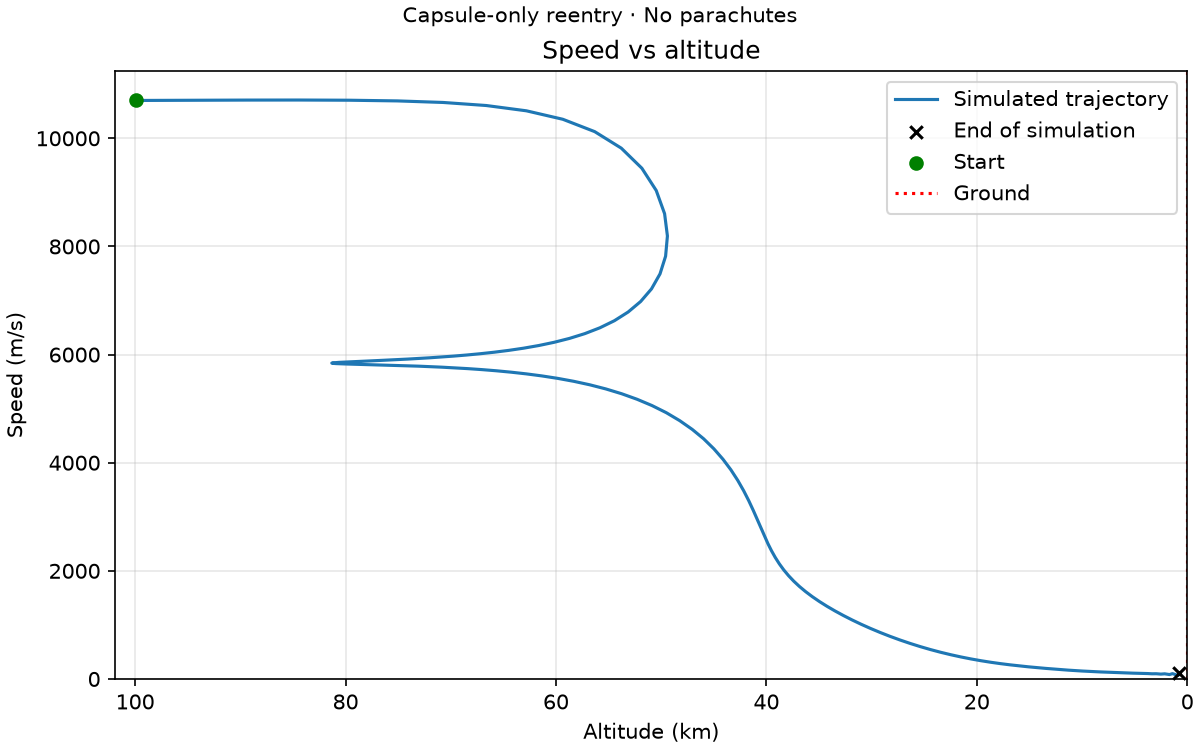
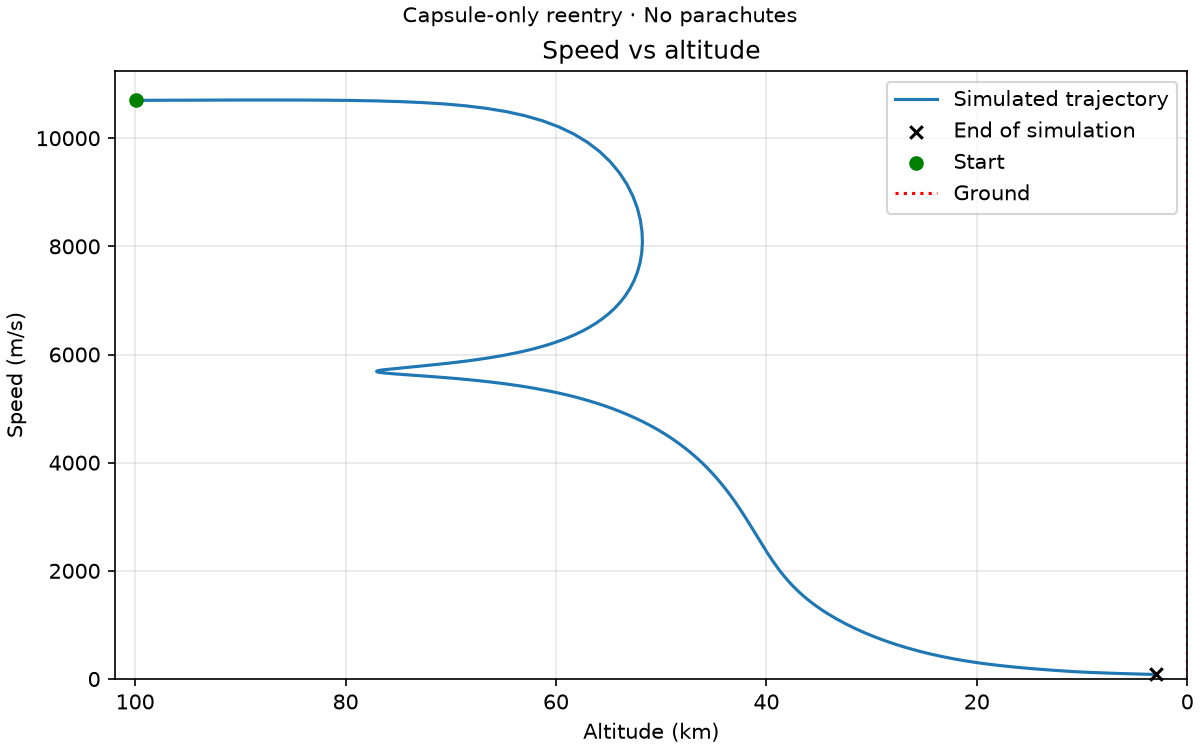
Final version before submitting

diff --git a/stability_region.py b/stability_region.py
@@ -3,7 +3,8 @@
 Run ``python3 stability_region.py`` to create
 ``figures/stability/ab3_jacobian_checkpoints.png``. Checkpoints come from a
 BDF reference trajectory sampled every second. The plotted limits describe
-local AB3 decay stability; neutral and growing modes are shown separately.
+local AB3 decay stability. Each region shows eigenvalues scaled by the
+smallest checkpoint timestep limit.
 """
 from pathlib import Path
 
@@ -123,7 +124,7 @@ def checked_jacobian(f, state, time):
 
 
 def choose_checkpoints(states, times, earth_radius):
-    """Five actual trajectory samples: entry, two load phases, 10 km, late flight."""
+    """Five trajectory samples: entry, two load phases, 10 km, and above 3 km."""
     from atmospheric_model import get_rho
 
     if len(times) < 6:
@@ -136,14 +137,17 @@ def choose_checkpoints(states, times, earth_radius):
               if len(peaks) > 1 else len(times) // 2)
     below = np.flatnonzero(h <= 10000)
     low = int(below[0]) if len(below) else 3 * len(times) // 4
-    reached_ground = abs(h[-1]) < 1e-6
+    below_3km = np.flatnonzero(h <= 3000)
+    if not len(below_3km):
+        raise ValueError("Trajectory does not reach 3 km for checkpoint 5")
+    if below_3km[0] == 0:
+        raise ValueError("Trajectory starts at or below 3 km")
     selected = [
         ("Entry", 0),
         ("First load peak" if len(peaks) else "Early flight", first),
         ("Second load peak" if len(peaks) > 1 else "Midflight", second),
         ("Below 10 km" if len(below) else "Late descent", low),
-        ("Before ground contact" if reached_ground else "Last sample",
-         len(times) - 2 if reached_ground else len(times) - 1),
+        ("Above 3 km", int(below_3km[0]) - 1),
     ]
     indices = [k for _, k in selected]
     if len(set(indices)) != 5 or indices != sorted(indices):
@@ -189,51 +193,38 @@ def run_analysis(output_dir=None):
     grid = stability_region()
     fig, axes = plt.subplots(2, 3, figsize=(13, 8), layout="constrained")
     fig.suptitle("AB3 stability at five trajectory states", fontsize=15)
-    checkpoint_times, timestep_limits = [], []
-    for ax, (label, k) in zip(axes.flat, choose_checkpoints(states, times, c.r_earth)):
+    checkpoints = []
+    for label, k in choose_checkpoints(states, times, c.r_earth):
         J, _, _ = checked_jacobian(eom.f, states[k], times[k])
         eigenvalues = np.linalg.eigvals(J)
-        kinds = np.array([mode_kind(lam) for lam in eigenvalues])
-        usable = eigenvalues[np.isin(kinds, ["decaying", "oscillatory"])]
         limit, _ = dt_limit(eigenvalues)
         if not np.isfinite(limit) or limit <= 0:
             raise RuntimeError(f"No finite positive AB3 decay limit at {label}")
-        checkpoint_times.append(times[k])
-        timestep_limits.append(limit)
+        checkpoints.append((label, k, eigenvalues, limit))
 
+    minimum_limit = min(checkpoint[3] for checkpoint in checkpoints)
+    for number, (ax, (label, k, eigenvalues, limit)) in enumerate(zip(axes.flat, checkpoints), 1):
         draw_region(ax, grid)
-        ax.set_xlim(-1.1, .7)
-        for dt, marker, color, step_label in [
-            (1., "o", "#0072B2", "Δt = 1 s"),
-            (.8 * limit, "s", "#009E73", "0.8 × local limit"),
-            (1.2 * limit, "^", "#D55E00", "1.2 × local limit"),
-        ]:
-            w = dt * usable
-            ax.scatter(w.real, w.imag, marker=marker, facecolors="none",
-                       edgecolors=color, s=36, label=step_label, zorder=4)
-        growth = eigenvalues[kinds == "growing"]
-        if len(growth):
-            ax.scatter(growth.real, growth.imag, marker="x", color="#b33b32",
-                       s=32, label="Growing modes (1 s)", zorder=5)
-        if np.any(kinds == "neutral"):
-            ax.plot(0, 0, "+", color="black", ms=7, label="Neutral modes")
+        w = minimum_limit * eigenvalues
+        ax.scatter(w.real, w.imag, color="#0072B2", s=36, zorder=4)
+        ax.set_xlim(min(-.8, w.real.min() * 1.1), max(.3, w.real.max() * 1.1))
+        ax.set_ylim(min(-.9, w.imag.min() * 1.1), max(.9, w.imag.max() * 1.1))
+        magnitudes = np.abs(eigenvalues)
+        nonzero = magnitudes[magnitudes > 1e-12]
+        stiffness = nonzero.max() / nonzero.min() if len(nonzero) else np.nan
         altitude_km = (states[k, 0] - c.r_earth) / 1000
-        ax.set_title(f"{label} · {times[k]:g} s\n"
-                     f"h = {altitude_km:.2f} km; Δt limit = {limit:.2f} s", fontsize=10)
+        ax.set_title(f"Checkpoint {number} · {times[k]:g} s\n"
+                     f"h = {altitude_km:.2f} km; stiffness ratio = {stiffness:.2e}\n"
+                     f"Δt = {minimum_limit:.3g} s (minimum limit)", fontsize=10)
 
     ax = axes.flat[-1]
-    ax.semilogy(checkpoint_times, timestep_limits, "o-", label="Local AB3 limit")
+    ax.semilogy([times[k] for _, k, _, _ in checkpoints],
+                [limit for _, _, _, limit in checkpoints], "o-", label="Local AB3 limit")
     ax.axhline(1, color=".4", linestyle="--", label="Reference timestep: 1 s")
     ax.set(xlabel="Time since entry (s)", ylabel="Timestep (s)",
            title="Local limits at selected states")
     ax.legend(fontsize=8)
     ax.grid(alpha=.2)
-    legend = {}
-    for ax in axes.flat[:-1]:
-        handles, labels = ax.get_legend_handles_labels()
-        legend.update(zip(labels, handles))
-    fig.legend(legend.values(), legend.keys(), loc="outside lower center", ncol=3, fontsize=8)
-
     output_dir = (Path(output_dir) if output_dir is not None else
                   Path(__file__).resolve().parent / "figures" / "stability")
     output_dir.mkdir(parents=True, exist_ok=True)

diff --git a/initial_conditions.py b/initial_conditions.py
@@ -6,9 +6,9 @@ from constants import r_earth
 
 r = 99900 + r_earth  # Earth-centered radius, m
 v = 10700  # speed, m/s
-gamma = np.deg2rad(-6.5)  # flight path angle
-psi = np.deg2rad(20)  # azimuth, measured from east toward north
-phi = np.deg2rad(34)  # latitude
-theta = np.deg2rad(-118)  # longitude
+gamma = np.deg2rad(-6.2)  # flight path angle
+psi = np.deg2rad(40)  # azimuth, measured from east toward north
+phi = np.deg2rad(19)  # latitude
+theta = np.deg2rad(-139)  # longitude
 
 state = np.array([r, v, gamma, psi, phi, theta])

diff --git a/constants.py b/constants.py
@@ -2,7 +2,7 @@
 m_earth = 5.9622e24
 """Mass of the earth, in kilograms"""
 
-r_earth = 6371000
+r_earth = 6378000
 """Radius of the earth, in m"""
 
 G = 6.6742e-11
@@ -17,13 +17,13 @@ h_ratio = 1.4
 A = 19.86
 """Reference Area for the Orion space capsule (m^2)"""
 
-cd = 1.3
+cd = 1.45
 """Coefficient of Drag for the Orion space capsule"""
 
 cl = 0.3
 """Coefficient of Lift for the Orion space capsule"""
 
-m_capsule = 10800.0
+m_capsule = 9300
 """Mass of capsule, in kilograms"""
 
 nu = 0.0

diff --git a/main.py b/main.py
@@ -11,7 +11,7 @@ import constants as c
 
 if __name__ == "__main__":
     ground_event = lambda state, time: state[0] - c.r_earth
-    us, times = ab3(eom.f, init.state, 700, 4.49, starter=heun)
+    us, times = ab3(eom.f, init.state, 642, 2.4, starter=heun)
     if not np.all(np.isfinite(us)) or np.any(us[:, 1] < 0):
         raise RuntimeError("Invalid trajectory: nonfinite state or negative speed; plots not generated.")
     reached_ground = abs(ground_event(us[-1], times[-1])) < 1e-6
